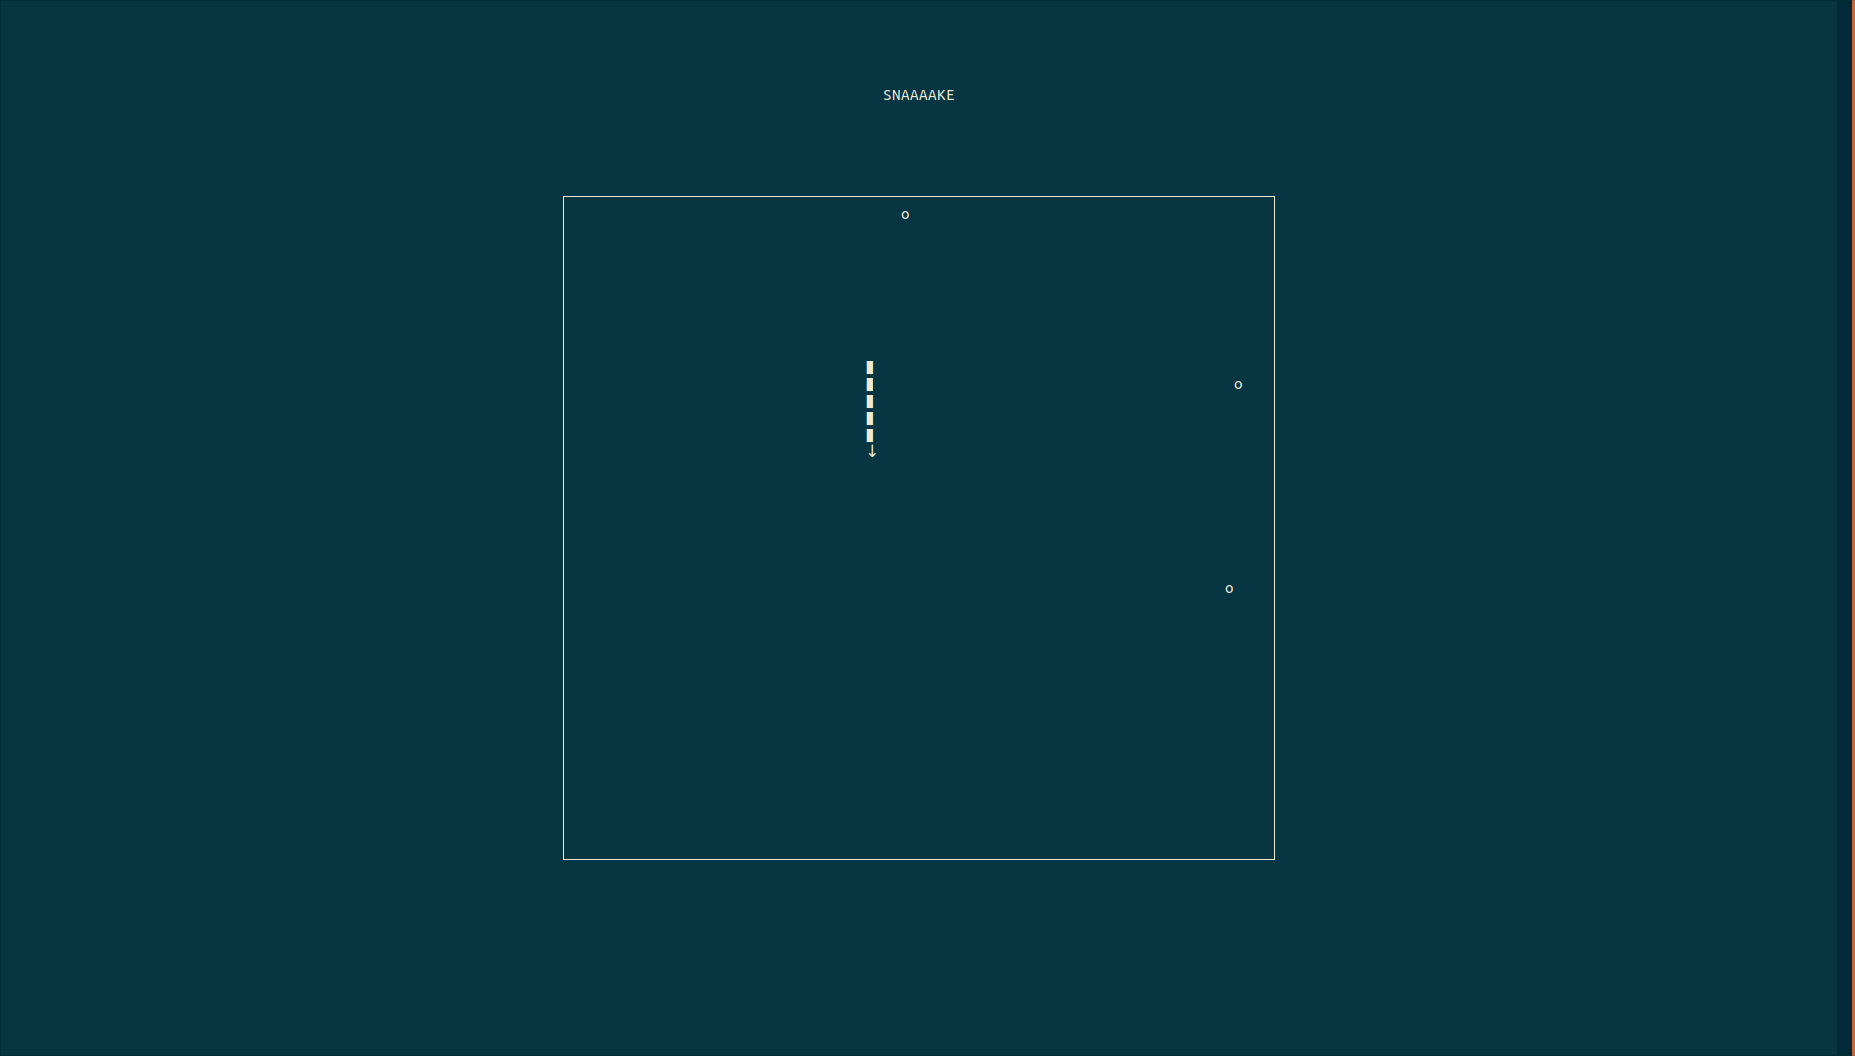
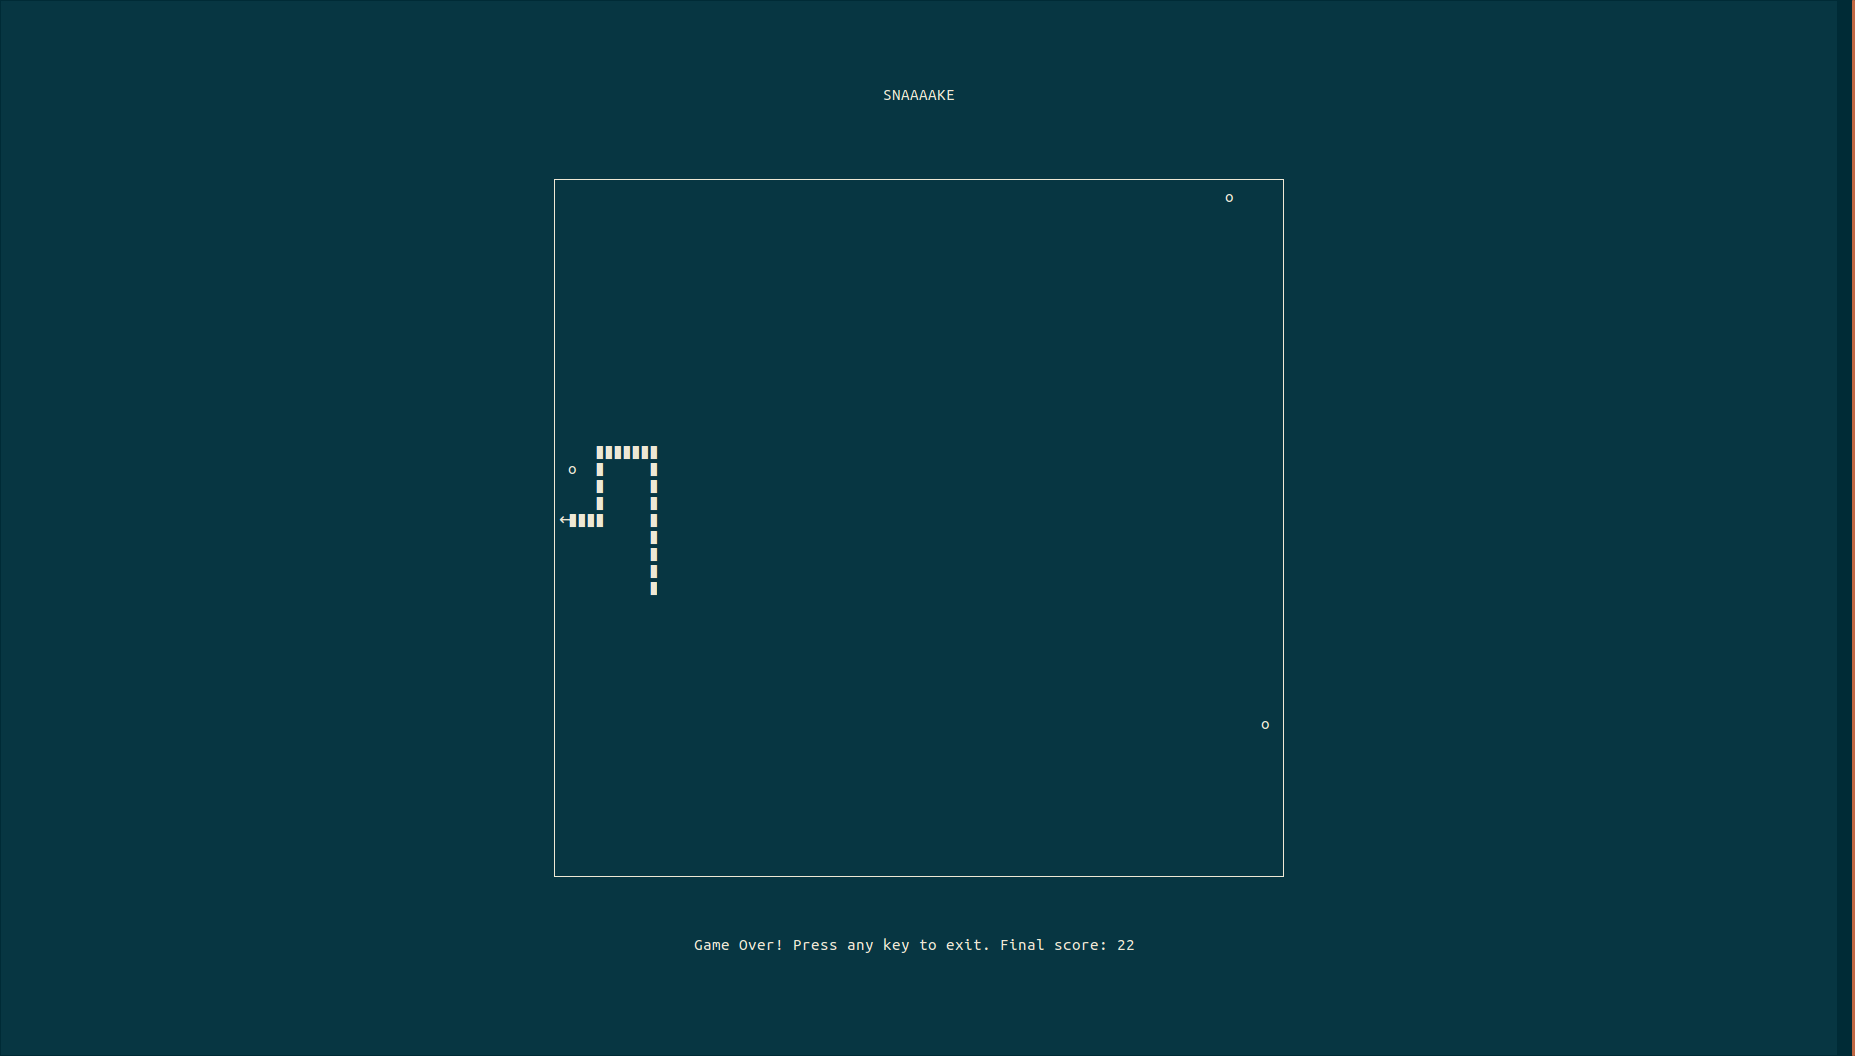
Add score display

diff --git a/src/display.py b/src/display.py
@@ -73,8 +73,10 @@ class CursesDisplay:
         self.__draw_player(state)
 
         if state.game_over:
-            self.__draw_message('Game Over!')
-            self.message_win.refresh()
+            self.__draw_message('Game Over! Press any key to exit. Final score: {}'.format(state.player.length))
+        else:
+            self.__draw_message('Score: {}'.format(state.player.length))
 
         self.arena_win.box()
         self.arena_win.refresh()
+        self.message_win.refresh()
